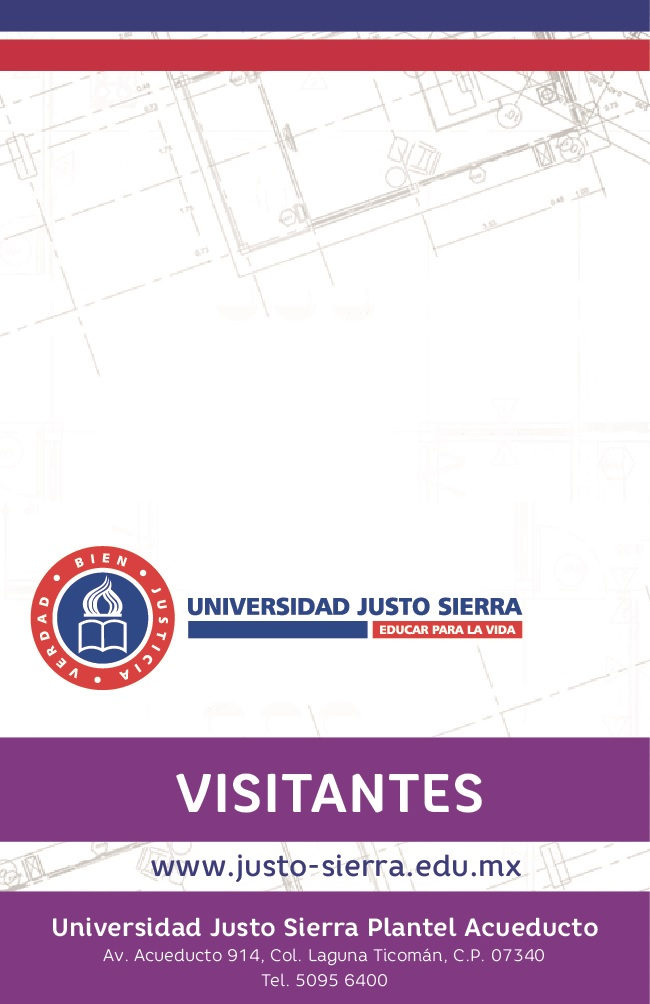
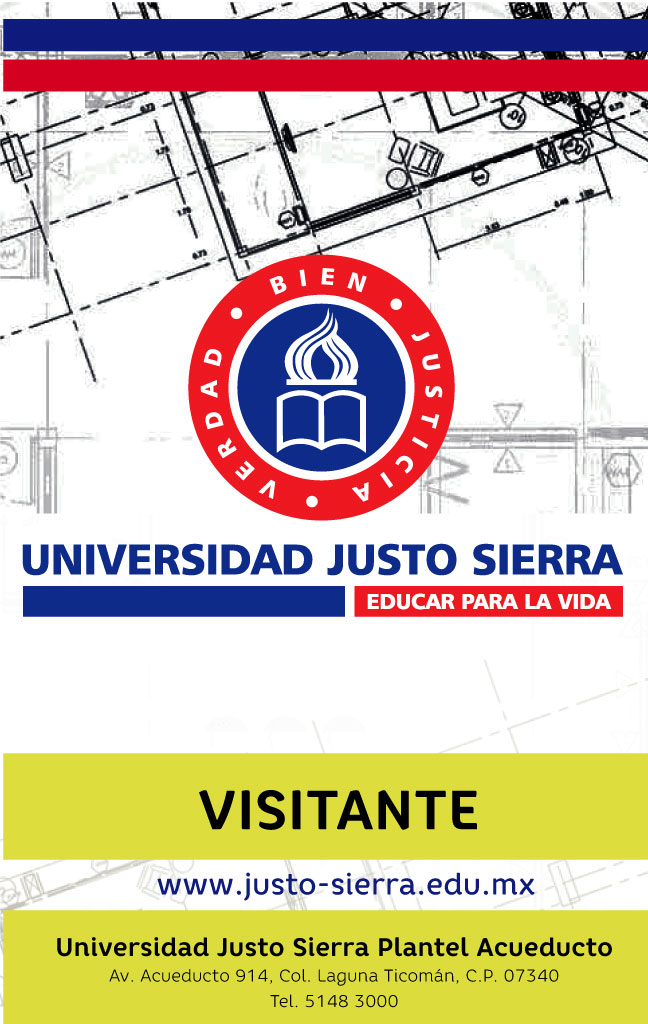
cambios en credencial empleados.

diff --git a/SIPAA_CS/SIPAA_CS/Properties/Resources.Designer.cs b/SIPAA_CS/SIPAA_CS/Properties/Resources.Designer.cs
@@ -1509,5 +1509,15 @@ namespace SIPAA_CS.Properties {
                 return ((System.Drawing.Bitmap)(obj));
             }
         }
+        
+        /// <summary>
+        ///   Busca un recurso adaptado de tipo System.Drawing.Bitmap.
+        /// </summary>
+        internal static System.Drawing.Bitmap visitantes {
+            get {
+                object obj = ResourceManager.GetObject("visitantes", resourceCulture);
+                return ((System.Drawing.Bitmap)(obj));
+            }
+        }
     }
 }

diff --git a/SIPAA_CS/SIPAA_CS/RecursosHumanos/Reportes/CredencialEmpleado.Designer.cs b/SIPAA_CS/SIPAA_CS/RecursosHumanos/Reportes/CredencialEmpleado.Designer.cs
@@ -795,7 +795,8 @@
             this.comboBox3.Items.AddRange(new object[] {
             "administrativos",
             "docentes",
-            "directivo"});
+            "directivo",
+            "visitantes"});
             this.comboBox3.Location = new System.Drawing.Point(465, 108);
             this.comboBox3.Name = "comboBox3";
             this.comboBox3.Size = new System.Drawing.Size(254, 25);

diff --git a/SIPAA_CS/SIPAA_CS/RecursosHumanos/Reportes/CredencialEmpleado.cs b/SIPAA_CS/SIPAA_CS/RecursosHumanos/Reportes/CredencialEmpleado.cs
@@ -511,6 +511,8 @@ namespace SIPAA_CS.RecursosHumanos.Reportes
                     return Resources.docentes;
                 case "directivo":
                     return Resources.direc;
+                case "visitantes":
+                    return Resources.visitantes;
                 default:
                     return Resources._default;
             }
